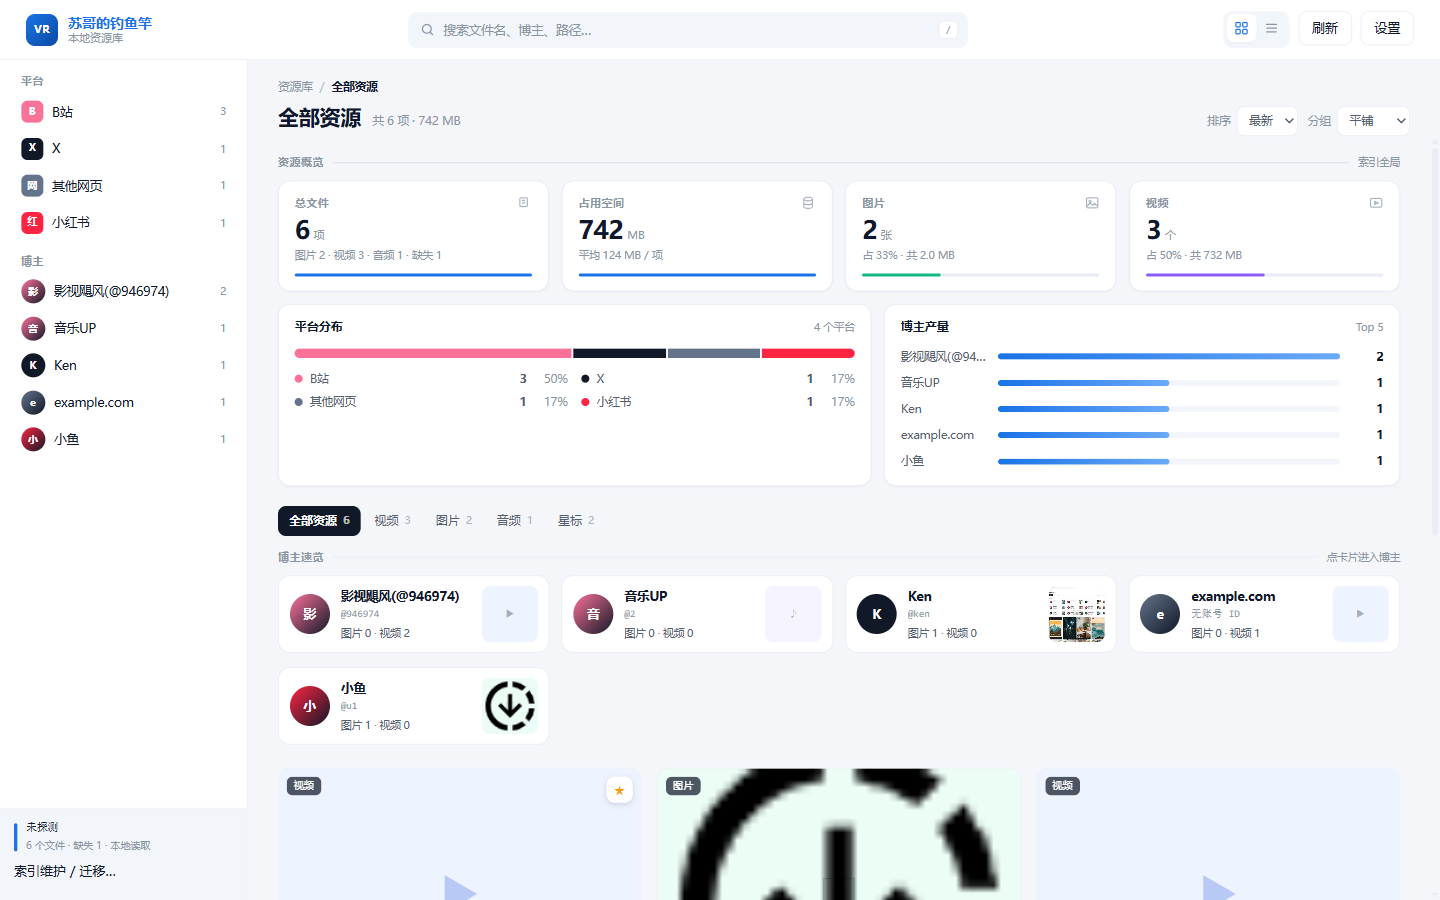
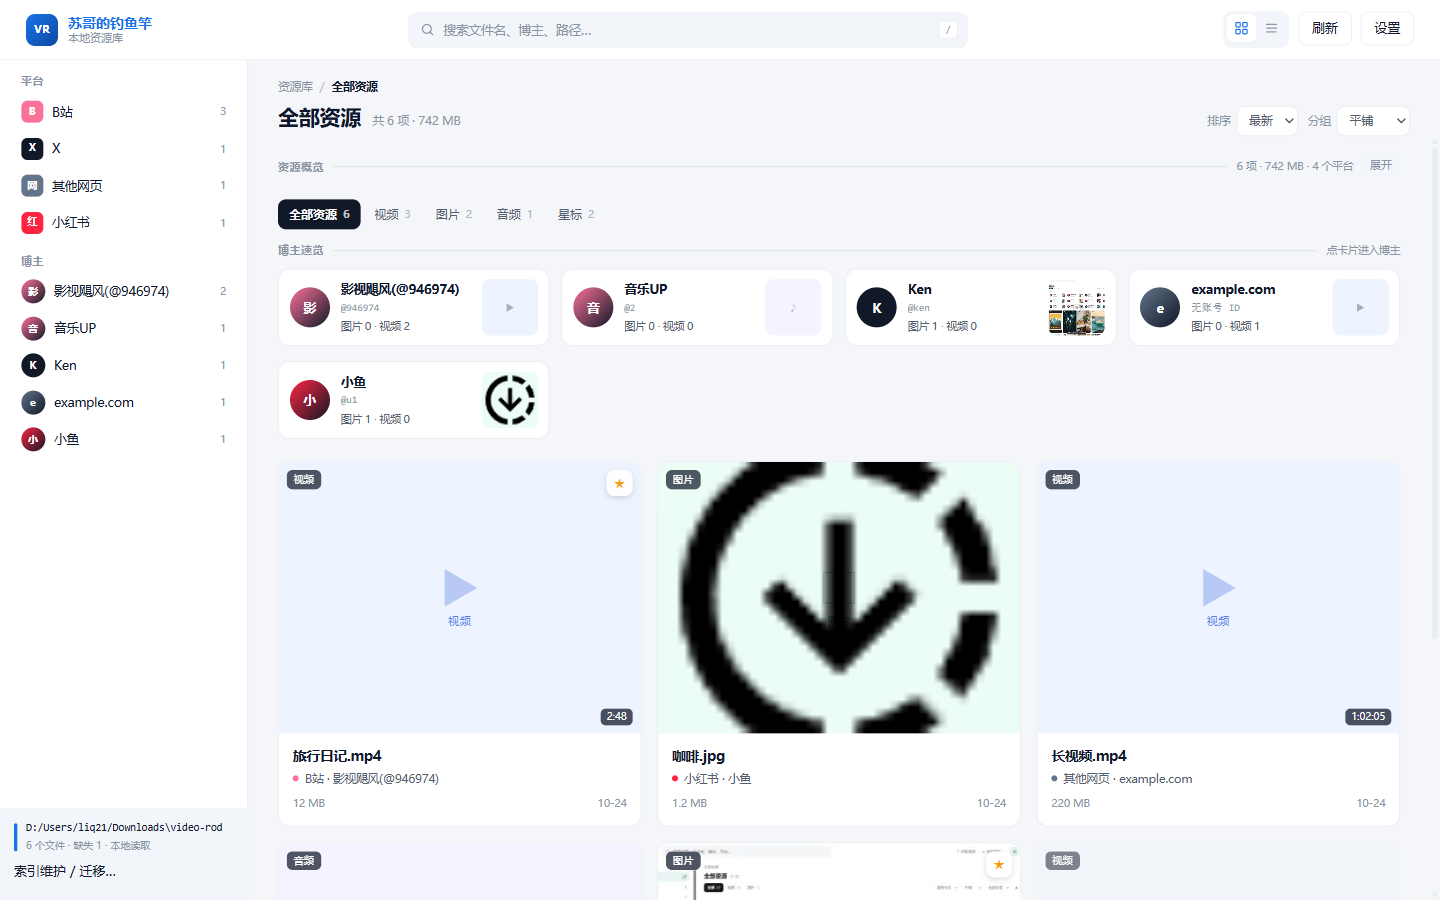
docs: 截图对齐默认收起与查看器 v2

diff --git a/deliverables/DELIVERABLES.md b/deliverables/DELIVERABLES.md
@@ -137,7 +137,7 @@ video-rod/
 | 查看器验收脚本 | `tools/cdp-viewer-test.py` | v1.0 | 已定稿 | **27/27**：图片缩放复位、信息面板、←/→ 切条、缩略图带、视频无原生 controls、Space、seek ±5/±30、↑/↓、连播、Esc（TESTING §17） |
 | 查看器截图 | `deliverables/assets/{viewer-image,viewer-zoom,viewer-video}.png` | v1.0 | 已定稿 | 1440 图片 + 信息面板 + 缩略图带、156% 放大、视频自绘控件 |
 | 前端统一设计方案 | `docs/FRONTEND-UI-SYSTEM.md` | v1.0 | 已定稿 | popup + 资源库共用 token/组件；现状审计、全宽布局、全屏查看器、响应式与实施记录 |
-| 前端统一改造截图 | `deliverables/assets/{popup-after,library-page-grid,library-page-cards,library-page-table,library-page-900,library-page-dark,library-page-viewer}.png` | v2.0 | 已定稿 | popup 蓝色统一；资源库 1440 概览/大卡/表格、860 横条、深色、全屏查看器 |
+| 前端统一改造截图 | `deliverables/assets/{popup-after,library-page-grid,library-page-overview,library-page-cards,library-page-table,library-page-900,library-page-dark}.png` | v2.1 | 已定稿 | popup 蓝色统一；资源库 1440 默认（概览收起）/ 展开概览 / 大卡 / 表格、860 横条、深色 |
 | 设置页重设计方案 | `docs/OPTIONS-REDESIGN.md` | v1.0 | 已定稿 | 现状审计（18 分区 / 151 个唯一 ID / 40 处内联样式 / 8 类问题）+ 四组信息架构 + 视觉 token + 组件规范 + 响应式断点 + 兼容清单 + 实施记录（TESTING §14） |
 | 设置页重设计样式与交互 | `options.html` + `css/options.css` + `js/options.js` | v1.0 | 已定稿 | 四组侧栏与当前项高亮、分区卡片化、统一配置行/开关/按钮/表格；资源库拆三卡；危险操作独立红卡；<980px 顶部导航；深色 token；保存轻提示、开关/删除 aria；151 个 ID 与全部存储键保留 |
 | 设置页重设计截图 | `deliverables/assets/options-redesign-{1440,900,dark,library,table,form,danger,about,full}.png` | v1.1 | 已定稿 | 1440×900 / 900×900 / 深色 / 资源库三卡 / 规则表 / 表单行 / 危险操作 / 关于页（上游与本 fork 增量）/ 整页长图；实测 0 横向溢出、0 控制台错误 |

diff --git a/docs/FRONTEND-UI-SYSTEM.md b/docs/FRONTEND-UI-SYSTEM.md
@@ -168,7 +168,7 @@
 - 全屏查看器：图片/视频单击打开，深色遮罩、`←/→` 翻页、`Esc` 关闭、底部信息条 +「在文件中打开」。
 - 真实缩略图：`VRThumbs` 并发 2、`Image`/`video` 抽帧、WebP 存 IDB；失败保留类型占位。
 - 新增文件：`library.html`、`css/library.css`、`js/library/ui.js`、`js/library/thumbs.js`；`manifest` 补 `unlimitedStorage`。
-- 截图：`library-page-grid.png`（1440）、`library-page-list.png`、`library-page-viewer.png`、`library-page-900.png`（860）。
+- 截图：v1 的网格/列表/查看器截图已由 §11.7 的 v2 截图替代（列表视图改为表格、查看器改为 v2）。
 
 ### 10.3 验收
 
@@ -278,7 +278,7 @@
 | 表格 | 8 列（预览/名称/平台/博主/类型/大小/下载时间/星标），表头底色、数字右对齐、行悬停 |
 | 响应式 | ≤1199 隐藏博主列、≤999 隐藏类型列、≤899 隐藏时间列 + 侧栏横条、≤699 单列 |
 | 验收 | **30/30**（TESTING §16）；回归 S1a 17/17、索引 35/35、自动入库 14/14、迁移 39/39 |
-| 截图 | `library-page-{grid,cards,table,900,dark,viewer}.png` |
+| 截图 | `library-page-{grid,overview,cards,table,900,dark}.png` |
 
 > 设计取舍：概览固定为「索引全局」，避免筛选时数字跳动；表格是管理视图，进入后自动收起图表区。
 
